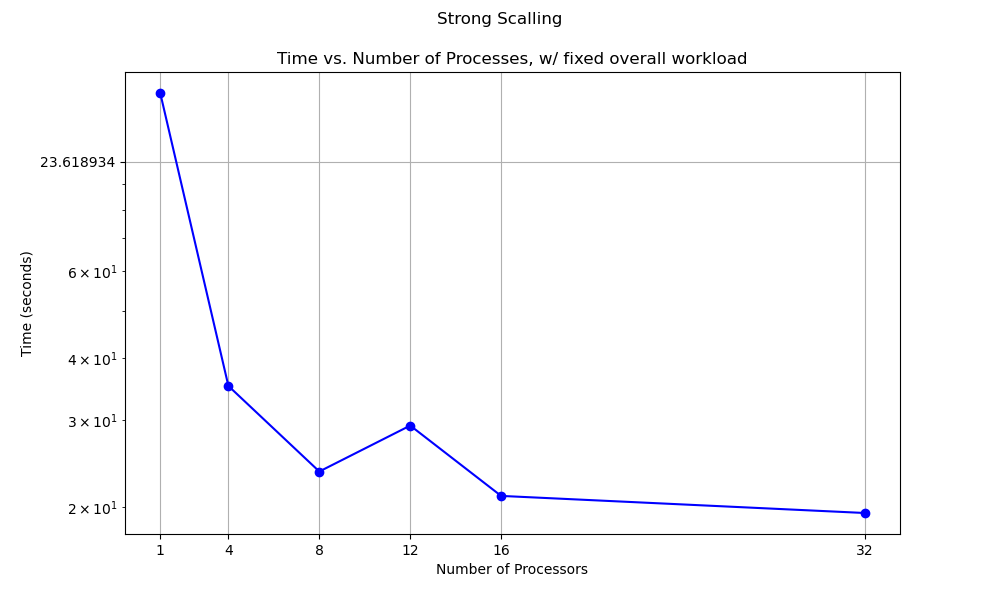
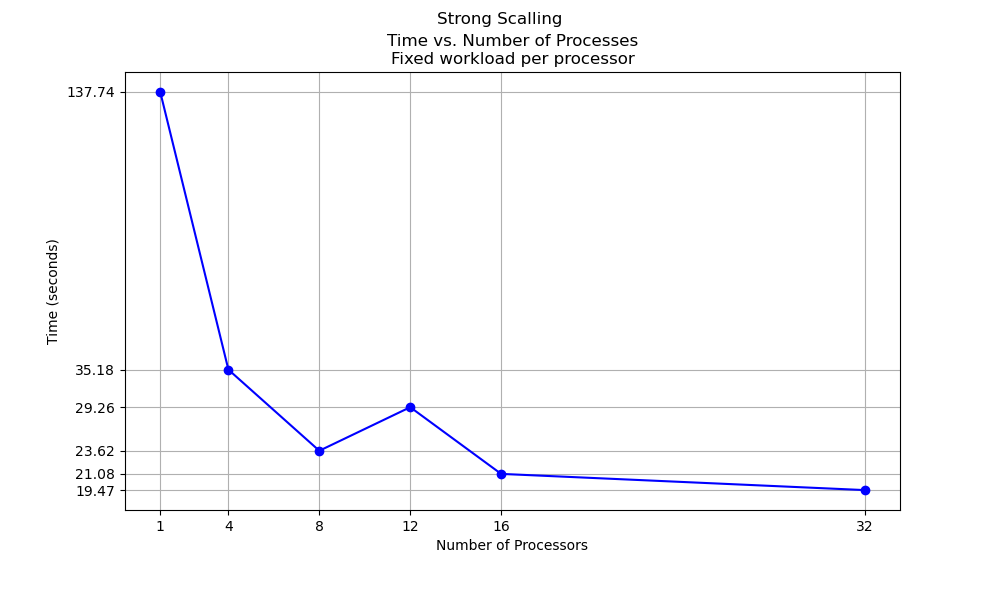
d

diff --git a/HPC/project 4/src/powermethod/weak_scalling.py b/HPC/project 4/src/powermethod/weak_scalling.py
@@ -21,7 +21,7 @@ formatter.set_scientific(False)
 fig, ax = plt.subplots(figsize=(10,6))
 fig.suptitle('Weak Scalling')
 ax.plot(p_values, time_values, marker='o', linestyle='-', color='b')
-ax.set_title('Time vs. Number of Processors w/ fixed workload')
+ax.set_title('Time vs. Number of Processors\nFixed workload per processor')
 ax.set_xlabel('Number of Processors\nMatrix y-dim')
 ax.set_ylabel('Time (seconds)')
 ax.set_yscale('log')
@@ -31,23 +31,25 @@ Axis.set_major_formatter(ax.yaxis,formatter)
 ax.set_xticklabels([str(l1)+"\n"+str(l2) for l1,l2 in zip(p_values,n_values)])
 fig.subplots_adjust(bottom=0.15)
 ax.grid(True)
-
-'''
-plt.plot(p_values, time_values, marker='o', linestyle='-', color='b')
-plt.title('Time vs. Number of Processes')
-plt.xlabel('Number of Processors (p)')
-plt.ylabel('Time (seconds)')
-plt.xticks(p_values)
-for tick, label in zip(p_values, n_values):
-    plt.text(tick, -0.5, str(label), ha='center', va='center')
-#plt.xticks(p_values,labels=[str(n) for n in n_values],minor=True)#[str(l1)+"\n"+str(l2) for l1,l2 in zip(p_values,n_values)])
-
-plt.yscale('log')
-plt.yticks(time_values[1:])
-plt.grid(True)
-
-plt.gca().xaxis.set_major_formatter(formatter)
-plt.gca().yaxis.set_major_formatter(formatter)
-'''
-
 fig.savefig('weak_scalling')
+
+plt.clf()
+efficiency = []
+for p,t in zip(p_values,time_values):
+    efficiency.append(time_values[0]/(p*t))
+
+
+fig, ax = plt.subplots(figsize=(10,6))
+fig.suptitle('Weak Scalling efficiency')
+ax.plot(p_values, efficiency, marker='o', linestyle='-', color='b')
+ax.set_title('Time vs. Number of Processors\nFixed workload per processor')
+ax.set_xlabel('Number of Processors\nMatrix y-dim')
+ax.set_ylabel('Efficiency factor')
+ax.set_yscale('log')
+ax.set_xticks(p_values)
+ax.set_yticks(efficiency)
+Axis.set_major_formatter(ax.yaxis,formatter)
+ax.set_xticklabels([str(l1)+"\n"+str(l2) for l1,l2 in zip(p_values,n_values)])
+fig.subplots_adjust(bottom=0.15)
+ax.grid(True)
+fig.savefig('weak_scalling_efficiency')

diff --git a/HPC/project 4/src/powermethod/strong_scalling.py b/HPC/project 4/src/powermethod/strong_scalling.py
@@ -21,13 +21,50 @@ formatter.set_scientific(False)
 fig, ax = plt.subplots(figsize=(10,6))
 fig.suptitle('Strong Scalling')
 ax.plot(p_values, time_values, marker='o', linestyle='-', color='b')
-ax.set_title('Time vs. Number of Processes, w/ fixed overall workload')
+ax.set_title(f'Time vs. Number of Processes\nFixed workload per processor')
 ax.set_xlabel('Number of Processors')
 ax.set_ylabel('Time (seconds)')
 ax.set_yscale('log')
-#ax.set_yticks(time_values)
+plt.minorticks_off()
 ax.set_xticks(p_values)
-Axis.set_major_formatter(ax.yaxis,formatter)
-ax.set_yticklabels(time_values)
+ax.set_yticks(time_values)
+ax.yaxis.set_major_formatter(formatter)
+ax.set_yticklabels([f"{t:.2f}" for t in time_values])
+fig.subplots_adjust(bottom=0.15)
 ax.grid(True)
 fig.savefig('strong_scalling')
+
+'''
+# Plotting the data
+fig, ax = plt.subplots(figsize=(10,6))
+fig.suptitle('Strong Scalling')
+ax.plot(p_values, time_values, marker='o', linestyle='-', color='b')
+ax.set_title(f'Time vs. Number of Processes, w/ fixed {n_values} matrix size')
+ax.set_xlabel('Number of Processors')
+ax.set_ylabel('Time (seconds)')
+ax.set_yscale('log')
+ax.set_yticks(time_values)
+'''
+
+# p against T1/P*Tp
+plt.clf()
+
+efficiency = []
+for p,t in zip(p_values,time_values):
+    efficiency.append(time_values[0]/(p*t))
+
+fig, ax = plt.subplots(figsize=(10,6))
+fig.suptitle('Strong Scalling')
+ax.plot(p_values, efficiency, marker='o', linestyle='-', color='b')
+ax.set_title(f'Time vs. Number of Processes\nFixed workload per processor')
+ax.set_xlabel('Number of Processors')
+ax.set_ylabel('Efficiency factor')
+ax.set_yscale('log')
+plt.minorticks_off()
+ax.set_xticks(p_values)
+ax.set_yticks(efficiency)
+ax.yaxis.set_major_formatter(formatter)
+ax.set_yticklabels([f"{t:.2f}" for t in efficiency], fontsize=8)
+fig.subplots_adjust(bottom=0.15)
+ax.grid(True)
+fig.savefig('strong_scalling_efficiency')

diff --git a/HPC/project 4/src/ghost/ghost.c b/HPC/project 4/src/ghost/ghost.c
@@ -83,31 +83,26 @@ int main(int argc, char *argv[])
     periods[1] = 1;
     int reorder = 0;
 
-    
-    
     // TODO: Create a Cartesian communicator (4*4) with periodic boundaries (we do not allow
     // the reordering of ranks) and use it to find your neighboring
     // ranks in all dimensions in a cyclic manner.
     MPI_Dims_create(size, 2, dims);  
     MPI_Cart_create(MPI_COMM_WORLD, 2, dims, periods, reorder, &comm_cart);
     MPI_Comm_rank(comm_cart, &rank);
+
     // TODO: find your top/bottom/left/right neighbor using the new communicator, see MPI_Cart_shift()
     // rank_top, rank_bottom
     // rank_left, rank_right
     MPI_Cart_shift(comm_cart, 0, 1, &rank_top, &rank_bottom);
     MPI_Cart_shift(comm_cart, 1, 1, &rank_left, &rank_right);
-    //int my_coords[2];
-    //MPI_Cart_coords(comm_cart, rank, 2, my_coords);
-    //printf("[rank %d, location (%d, %d)] -> top:%d, bottom: %d, left: %d, right: %d.\n", rank, my_coords[0],my_coords[1], rank_top, rank_bottom, rank_left, rank_right);
-    //printf("[rank %d] I am rank % at (%d, %d).\n", rank, my_coords[0],my_coords[1]);
 
     //  TODO: create derived datatype data_ghost, create a datatype for sending the column, see MPI_Type_vector() and MPI_Type_commit()
     // data_ghost
     MPI_Type_vector(SUBDOMAIN, 1, DOMAINSIZE, MPI_DOUBLE, &data_ghost);
     MPI_Type_commit(&data_ghost);
+
     //  TODO: ghost cell exchange with the neighbouring cells in all directions
     //  use MPI_Irecv(), MPI_Send(), MPI_Wait() or other viable alternatives
-
     //  to the top
     MPI_Send(&data[DOMAINSIZE+1],SUBDOMAIN,MPI_DOUBLE,rank_top,0,comm_cart);
     MPI_Recv(&data[DOMAINSIZE*(DOMAINSIZE-1)+1],SUBDOMAIN,MPI_DOUBLE,rank_bottom,0,comm_cart,&status);

diff --git a/HPC/project 4/src/ring/max_ring.c b/HPC/project 4/src/ring/max_ring.c
@@ -36,13 +36,13 @@ int main (int argc, char *argv[])
     MPI_Comm_size(MPI_COMM_WORLD, &size);
 
 
-    right = (my_rank+1)%(size);/* get rank of neighbor to your right */
-    left  = (my_rank-1)%(size);/* get rank of neighbor to your left */
+    right = (my_rank+1)%(size);
+    left  = (my_rank-1)%(size);
     
     snd_buf = (3*my_rank)%(2*size);
     max = snd_buf;
 
-    for(int i = 0; i<size-1; i++){
+    for(int i = 0; i<size; i++){
         MPI_Send(&snd_buf,1,MPI_INT,right,0,MPI_COMM_WORLD);
         MPI_Recv(&rcv_buf,1,MPI_INT,left,0,MPI_COMM_WORLD,MPI_STATUS_IGNORE);
         if(rcv_buf>max)

diff --git a/HPC/project 4/src/mandel/mandel_mpi.c b/HPC/project 4/src/mandel/mandel_mpi.c
@@ -141,7 +141,7 @@ int main (int argc, char** argv)
 		{
 			Partition p1 = updatePartition(p, proc);
 			Domain d1 = createDomain(p1);
-			//printf("Starting %d", proc);
+			
 			// TODO: receive partition of the process proc into array c (overwrite its data)
 			MPI_Status status;
 			MPI_Recv(c,(d1.nx)*(d1.ny),MPI_INT,proc,0,p.comm,&status);
